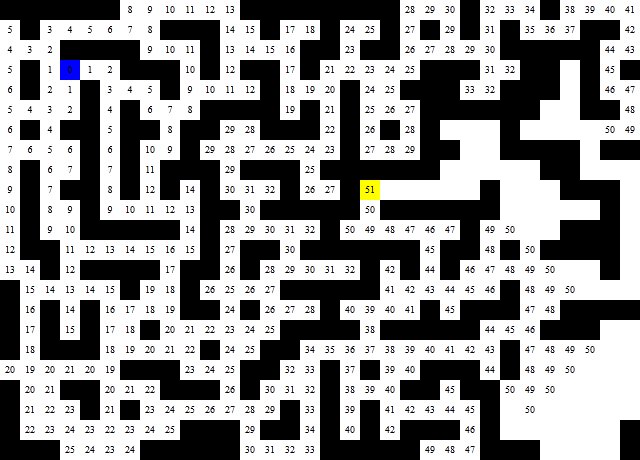
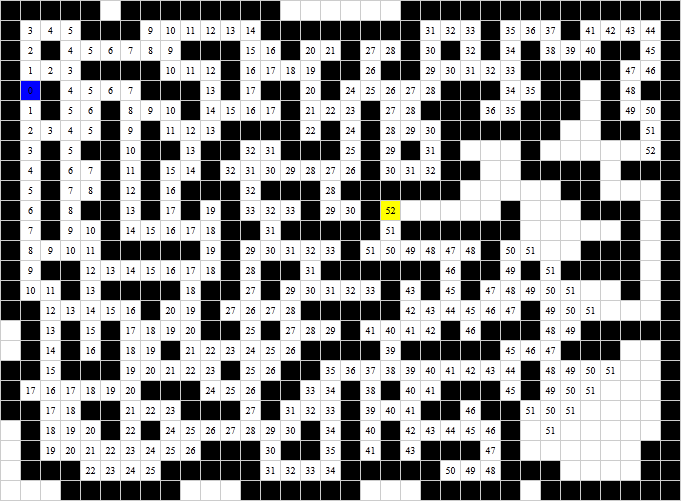
7

diff --git a/maze.php b/maze.php
@@ -13,43 +13,114 @@ foreach ($maze->findRoute() as $point) {
     $routeKeys[] = (string)$point;
 }
 
-$o = '<div style="line-height: 20px; font-size: 10px;">';
-foreach ($maze->getGrid() as $y => $xs) {
-    foreach ($xs as $x => $point) {
-
-        $o .= '<div style="float: left; width: 20px; height: 20px; text-align: center;';
-
-        if (in_array((string)$point, $routeKeys)) {
-            $o .= ' background-color: #bbb;';
-        } else {
-            switch ($point->getType())
-            {
-                case Point::TYPE_START:
-                    $o .= ' background-color: blue;';
-                    break;
-
-                case Point::TYPE_FINISH:
-                    $o .= ' background-color: yellow;';
-                    break;
-
-                case Point::TYPE_WALL:
-                    $o .= ' background-color: black;';
-                    break;
-            }
-        }
-
-        $o .= '">';
-
-        if ($point->isScored()) {
-            $o .= $point->getScore();
-        }
-
-        $o .= '</div>';
+$step = 1;
+if (isset($_GET['step'])) {
+    if ($_GET['step'] <= 4 && $_GET['step'] >= 1) {
+        $step = $_GET['step'];
     }
-
-    $o .= '<br>';
 }
+?>
 
-$o .= '</div>';
+<!DOCTYPE html>
+<html>
+    <head>
+        <title>Maze-Running</title>
 
-echo $o;
+        <style>
+            * {
+                padding : 0;
+                margin  : 0;
+            }
+
+            .maze {
+                padding : 20px;
+            }
+
+            .row {
+                line-height : 20px;
+                font-size   : 10px;
+                clear       : left;
+            }
+
+            .point {
+                float       : left;
+                text-align  : center;
+                <?php if ($step == 1): ?>
+                width       : 20px;
+                height      : 20px;
+                <?php else: ?>
+                width       : 19px;
+                height      : 19px;
+                border-top  : 1px solid #ccc;
+                border-left : 1px solid #ccc;
+                <?php endif; ?>
+            }
+
+            <?php if ($step > 1): ?>
+            .row .point:last-child {
+                border-right : 1px solid #ccc;
+            }
+
+            .maze .row:last-child .point {
+                border-bottom : 1px solid #ccc;
+            }
+            <?php endif; ?>
+
+            <?php if ($step > 3): ?>
+            .route {
+                background-color : #bbb;
+            }
+            <?php endif; ?>
+
+            .start {
+                background-color : blue;
+            }
+
+            .finish {
+                background-color : yellow;
+            }
+
+            .wall {
+                background-color : black;
+            }
+
+            <?php if ($step <= 2): ?>
+            .score {
+                display: none;
+            }
+            <?php endif; ?>
+        </style>
+    </head>
+
+    <body>
+        <div id="controls">
+            Step:
+            <a href="?step=1">1</a>
+            <a href="?step=2">2</a>
+            <a href="?step=3">3</a>
+            <a href="?step=4">4</a>
+        </div>
+
+        <div class="maze">
+            <?php foreach ($maze->getGrid() as $xs): ?>
+                <div class="row">
+                    <?php foreach ($xs as $point): ?>
+                        <div class="point <?php
+                            if (in_array((string)$point, $routeKeys)) {
+                                echo 'route';
+                            } else {
+                                echo $point->getType();
+                            }
+                        ?>">
+
+                        <?php if ($point->isScored()): ?>
+                            <div class="score"><?php echo $point->getScore(); ?></div>
+                        <?php endif; ?>
+
+                        </div>
+                    <?php endforeach; ?>
+                </div>
+            <?php endforeach; ?>
+        </div>
+    </body>
+</html>

diff --git a/BigWhoop/MazeRunning/Point.php b/BigWhoop/MazeRunning/Point.php
@@ -3,10 +3,10 @@ namespace BigWhoop\MazeRunning;
 
 class Point
 {
-    const TYPE_START  = 'S';
-    const TYPE_FINISH = 'F';
-    const TYPE_PATH   = 'P';
-    const TYPE_WALL   = 'W';
+    const TYPE_START  = 'start';
+    const TYPE_FINISH = 'finish';
+    const TYPE_PATH   = 'path';
+    const TYPE_WALL   = 'wall';
     
 
     /**
